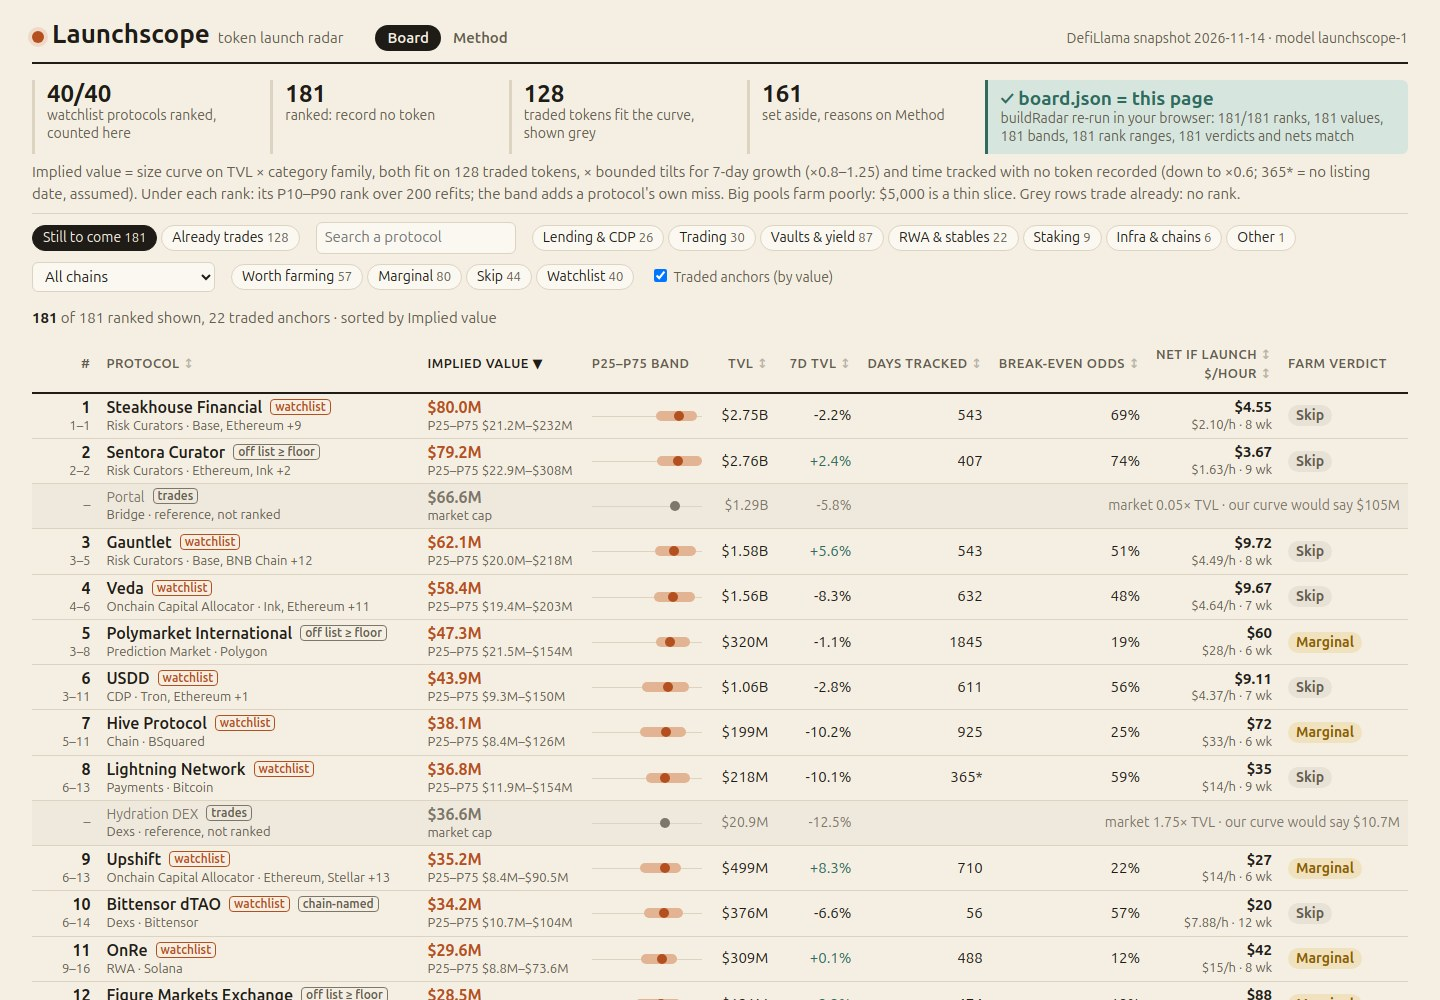
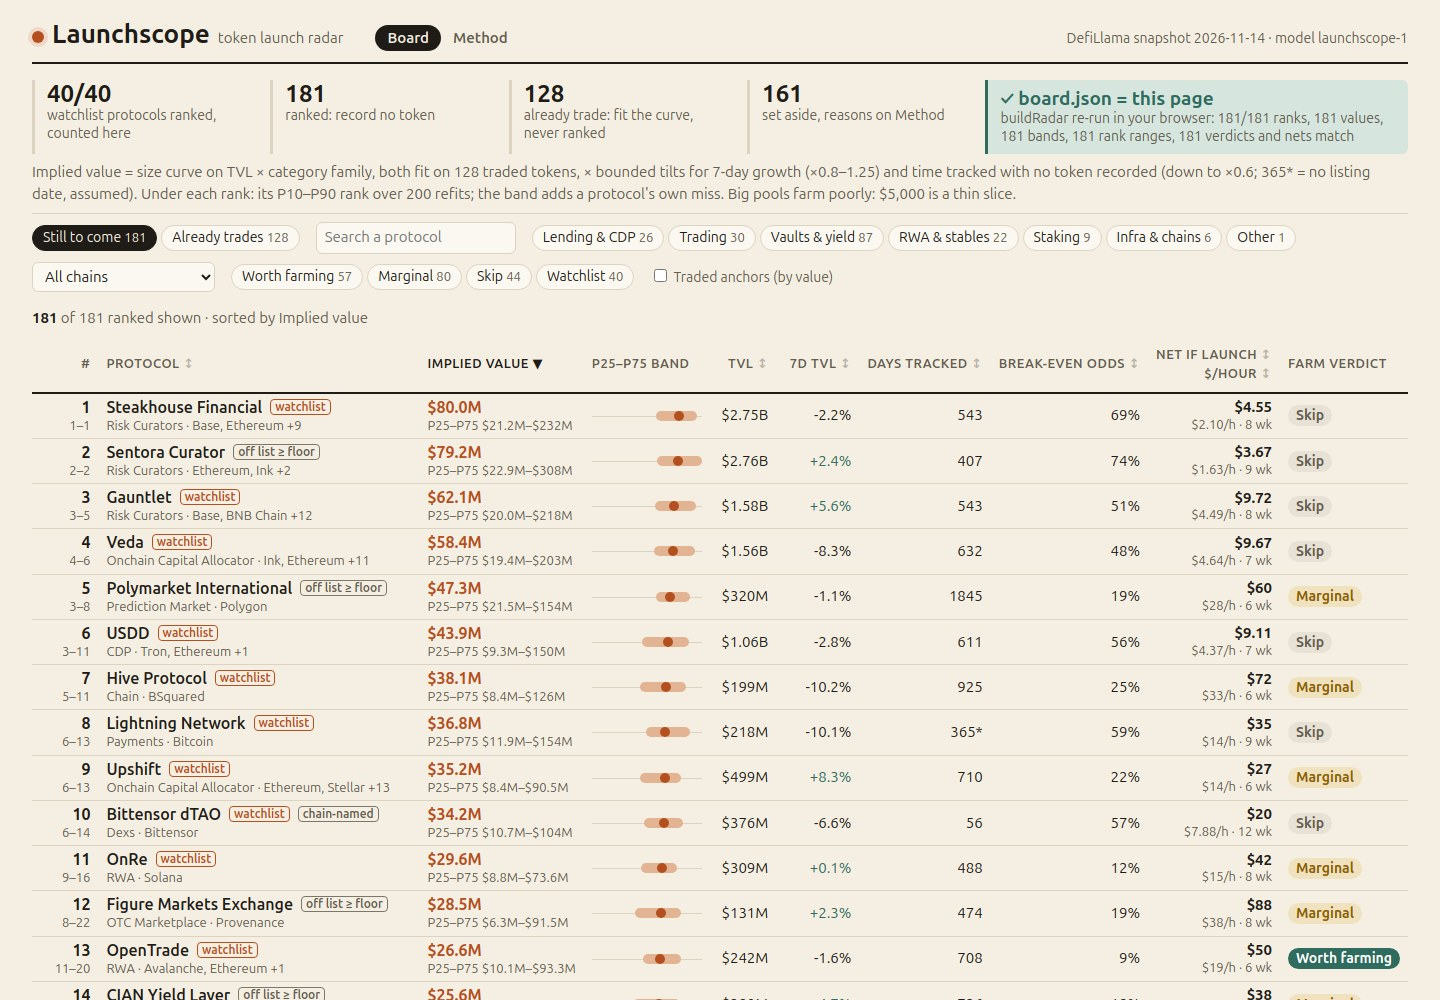
Default board is a clean ranked list; traded anchors are opt-in
DEFAULTS.anchors is off, so the first screen shows only protocols that
record no token (Portal and Hydration DEX no longer sit among the top 12);
the KPI tile says the 128 traded tokens fit the curve and are never ranked,
and the 'Already trades' tab lists them.

diff --git a/dashboard/radar.js b/dashboard/radar.js
@@ -33,7 +33,7 @@
 
   // -- state in the URL hash
 
-  const DEFAULTS = { tab: '', fam: '', chain: '', verdict: '', watch: '', q: '', anchors: '1', sort: 'value', dir: 'desc' };
+  const DEFAULTS = { tab: '', fam: '', chain: '', verdict: '', watch: '', q: '', anchors: '', sort: 'value', dir: 'desc' };
   const SORTS = {
     value: (r) => r.iv.value, name: (r) => r.name.toLowerCase(), tvl: (r) => r.tvl_usd, growth: (r) => (r.change_7d === null ? -1e9 : r.change_7d),
     days: (r) => (r.iv.days === null ? -1 : r.iv.days), odds: (r) => r.plan.breakEven, net: (r) => r.plan.net, perhour: (r) => r.plan.perHour,
@@ -89,7 +89,7 @@
     return `<section class="kpis">
       <div><b>${M.watch}/${S.watchlist.length}</b><span>watchlist protocols ranked, counted here</span></div>
       <div><b>${M.rows.length}</b><span>ranked: record no token</span></div>
-      <div><b>${M.traded.length}</b><span>traded tokens fit the curve, shown grey</span></div>
+      <div><b>${M.traded.length}</b><span>already trade: fit the curve, never ranked</span></div>
       <div><b>${M.R.universe.setAside.length}</b><span>set aside, reasons on Method</span></div>
       <div class="check ${k.ok ? 'ok' : 'bad'}"><b>${k.ok ? '✓' : '✗'} board.json = this page</b><span>buildRadar re-run in your browser: ${k.ranked}/${k.n} ranks, ${k.values} values, ${k.bands} bands, ${k.ranks} rank ranges, ${k.plans} verdicts and nets match</span></div>
     </section>`;
@@ -136,7 +136,7 @@
     const chip = (key, val, label, n) => `<button class="chip ${st[key] === val ? 'on' : ''}" data-k="${key}" data-v="${esc(val)}">${esc(label)} <small>${n}</small></button>`;
     const chains = Object.keys(chainCount).sort((a, b) => chainCount[b] - chainCount[a] || (a < b ? -1 : 1)).slice(0, 30);
     $('#view').innerHTML = `${kpis()}
-      <p class="explain">Implied value = size curve on TVL × category family, both fit on ${M.traded.length} traded tokens, × bounded tilts for 7-day growth (×${L.MODEL.growthMin}–${L.MODEL.growthMax}) and time tracked with no token recorded (down to ×${1 - L.MODEL.seasonDepth}; 365* = no listing date, assumed). Under each rank: its P10–P90 rank over 200 refits; the band adds a protocol's own miss. Big pools farm poorly: $5,000 is a thin slice. Grey rows trade already: no rank.</p>
+      <p class="explain">Implied value = size curve on TVL × category family, both fit on ${M.traded.length} traded tokens, × bounded tilts for 7-day growth (×${L.MODEL.growthMin}–${L.MODEL.growthMax}) and time tracked with no token recorded (down to ×${1 - L.MODEL.seasonDepth}; 365* = no listing date, assumed). Under each rank: its P10–P90 rank over 200 refits; the band adds a protocol's own miss. Big pools farm poorly: $5,000 is a thin slice.</p>
       <div class="toolbar">
         <div class="group seg">${chip('tab', '', 'Still to come', M.rows.length)}${chip('tab', 'traded', 'Already trades', M.traded.length)}</div>
         <input id="q" type="search" placeholder="Search a protocol" value="${esc(st.q)}" aria-label="Search">
